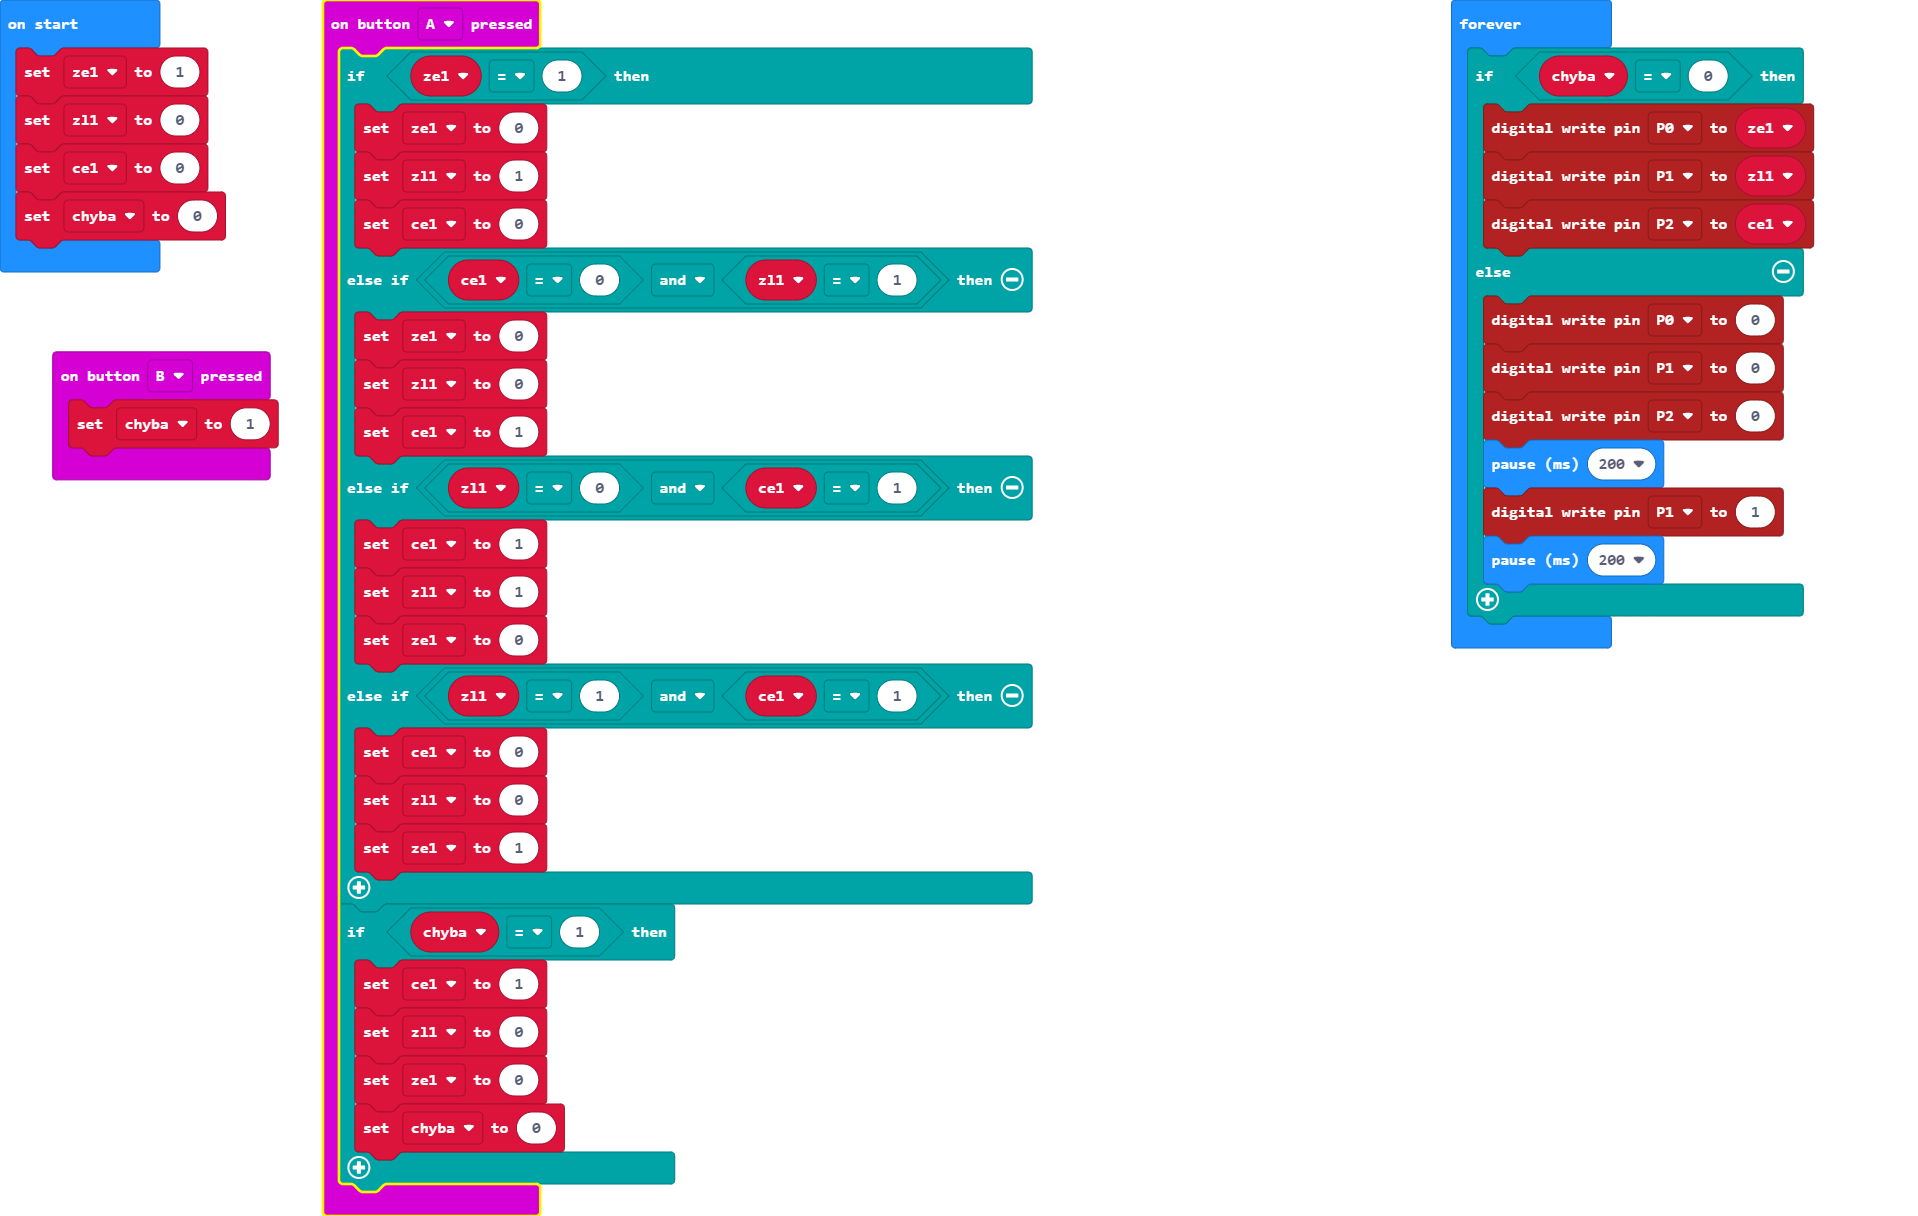
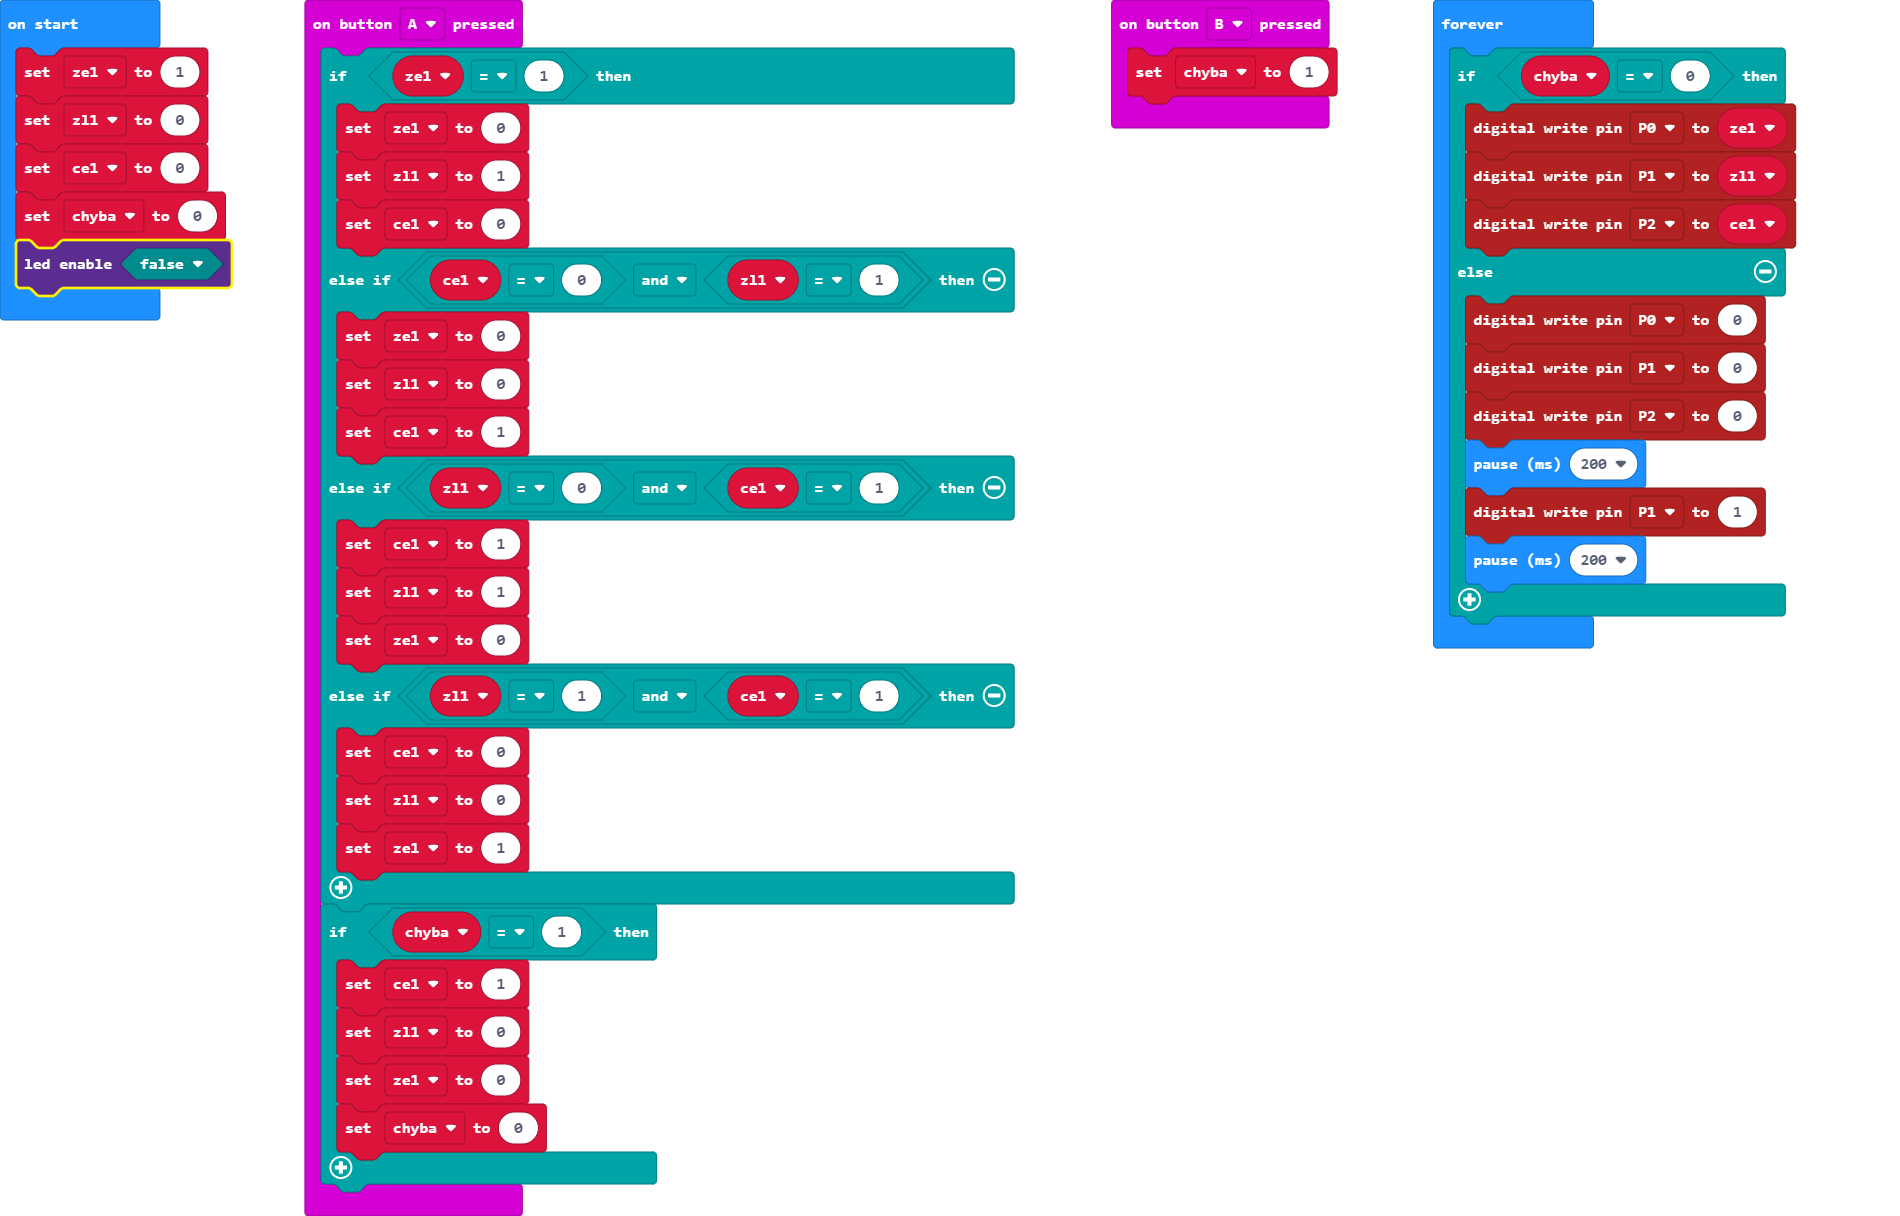
Update pxt.json, main.blocks, main.ts

diff --git a/main.ts b/main.ts
@@ -1,5 +1,4 @@
-input.onButtonPressed(Button.A, function on_button_pressed_a() {
-    
+input.onButtonPressed(Button.A, function () {
     if (ze1 == 1) {
         ze1 = 0
         zl1 = 1
@@ -17,17 +16,14 @@ input.onButtonPressed(Button.A, function on_button_pressed_a() {
         zl1 = 0
         ze1 = 1
     }
-    
     if (chyba == 1) {
         ce1 = 1
         zl1 = 0
         ze1 = 0
         chyba = 0
     }
-    
 })
-input.onButtonPressed(Button.B, function on_button_pressed_b() {
-    
+input.onButtonPressed(Button.B, function () {
     chyba = 1
 })
 let chyba = 0
@@ -38,7 +34,8 @@ ze1 = 1
 zl1 = 0
 ce1 = 0
 chyba = 0
-basic.forever(function on_forever() {
+led.enable(false)
+basic.forever(function () {
     if (chyba == 0) {
         pins.digitalWritePin(DigitalPin.P0, ze1)
         pins.digitalWritePin(DigitalPin.P1, zl1)
@@ -51,5 +48,4 @@ basic.forever(function on_forever() {
         pins.digitalWritePin(DigitalPin.P1, 1)
         basic.pause(200)
     }
-    
 })
